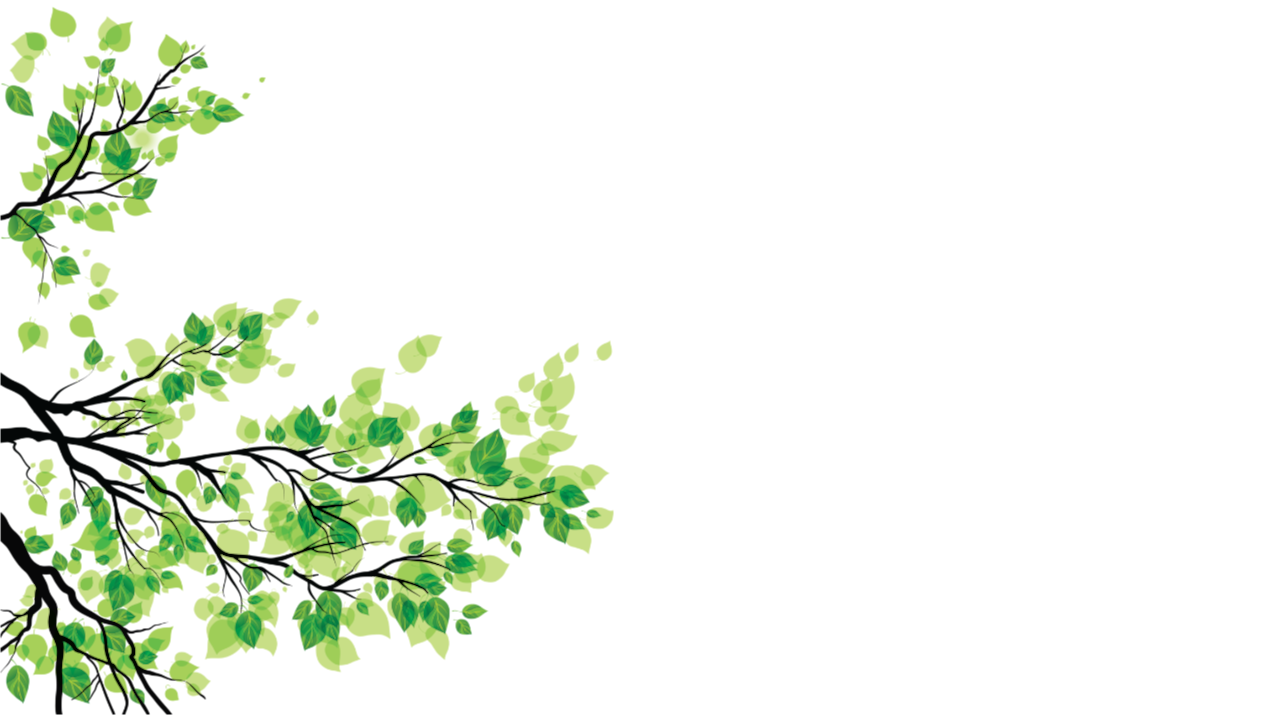
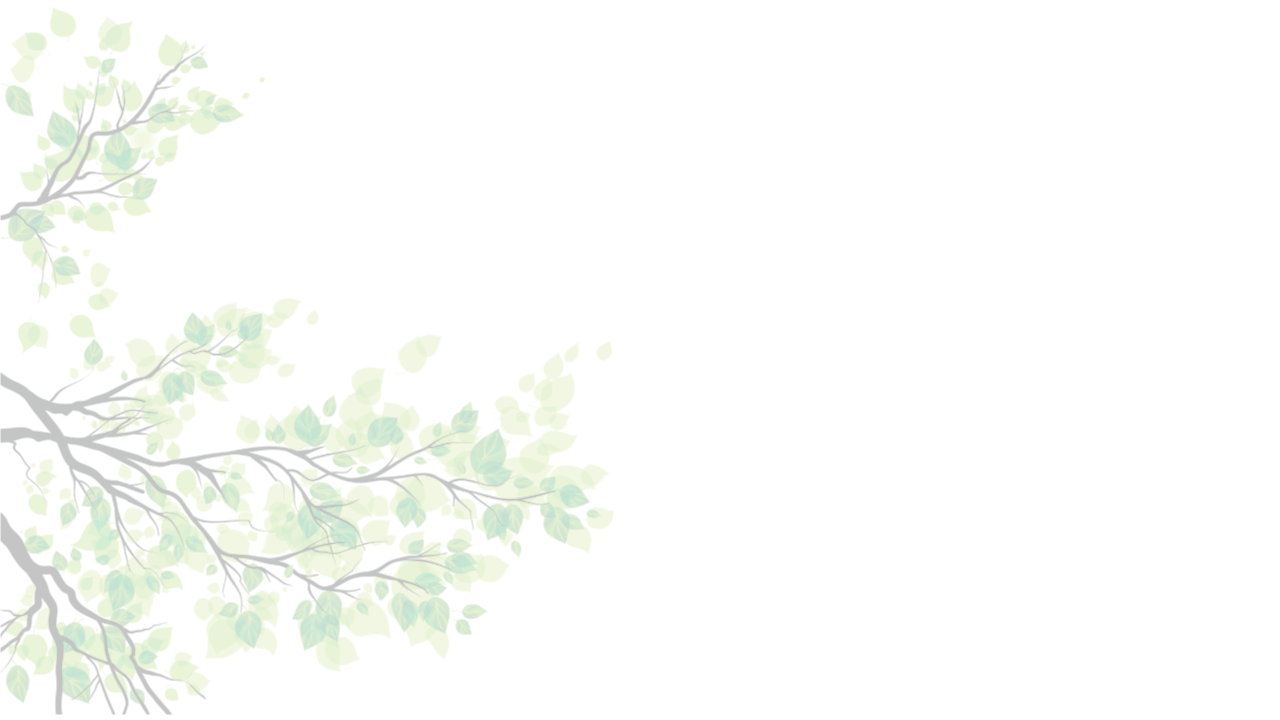
update 2

Changed region(s): [[0.0, 0.0, 0.5, 1.0]]

diff --git a/src/pages/Landing/Vision.js b/src/pages/Landing/Vision.js
@@ -10,9 +10,10 @@ import { NAVBAR_PAGES } from '../../constants/navbar';
 const Vision = () => {
     return (
         <Container id={NAVBAR_PAGES[1].id} sx={{ alignSelf: 'center' }}>
-            <Grid container spacing={10} alignItems="center">
-                <Grid item md={6} xs={12}>
-                    <Stack spacing={3}>
+            <Title>Notre Vision</Title>
+            <Grid container spacing={8} alignItems="center">
+                <Grid item md={6} xs={12} alignItems="center">
+                    <Stack spacing={3} sx={{ width: 'fit-content', mx: { md: 'auto' } }}>
                         <Box
                             sx={(theme) => ({
                                 height: { sm: 350, xs: 250 },
@@ -58,45 +59,49 @@ const Vision = () => {
                                 })}
                             />
                         </Box>
-                        <Title zigzag>Notre Vision</Title>
-                        <Typography
-                            sx={(theme) => ({
-                                fontSize: theme.fontSize.md,
-                                fontWeight: theme.fontWeight.light,
-                                color: theme.palette.common.black,
-                            })}
-                        >
-                            Notre vision est celle d'une unité de développement de chaînes de valeur qui agit comme un catalyseur de
-                            transformation positive. Nous travaillons avec passion pour créer un écosystème où les agriculteurs, artisans et
-                            professionnels prospèrent, où les communautés s'épanouissent, et où l'impact de nos efforts se fait ressentir à
-                            travers une amélioration tangible des conditions de vie. Notre engagement envers une synergie efficace au sein
-                            des chaînes de valeur est le socle sur lequel repose notre quête d'un avenir plus prospère et durable pour tous.
-                            Notre vision s'articule autour de plusieurs principes fondamentaux :
-                        </Typography>
                     </Stack>
+                    <Typography
+                        sx={(theme) => ({
+                            fontSize: theme.fontSize.md,
+                            fontWeight: theme.fontWeight.light,
+                            color: theme.palette.common.black,
+                            lineHeight: 2,
+                            textAlign: 'justify',
+                            mt: 3,
+                        })}
+                    >
+                        Notre vision est celle d'une unité de développement de chaînes de valeur qui agit comme un catalyseur de
+                        transformation positive. Nous travaillons avec passion pour créer un écosystème où les agriculteurs, artisans et
+                        professionnels prospèrent, où les communautés s'épanouissent, et où l'impact de nos efforts se fait ressentir à
+                        travers une amélioration tangible des conditions de vie. Notre engagement envers une synergie efficace au sein des
+                        chaînes de valeur est le socle sur lequel repose notre quête d'un avenir plus prospère et durable pour tous. Notre
+                        vision s'articule autour de plusieurs principes fondamentaux :
+                    </Typography>
                 </Grid>
 
                 <Grid item md={6} xs={12}>
                     {/* <Grid container spacing={3}> */}
-                    <Stack spacing={2}>
+                    <Stack spacing={4}>
                         {VISION.map((item) => (
-                            <Box display="flex" alignItems="center" gap={2}>
+                            <Box display="flex" alignItems="center" gap={3}>
                                 <Avatar
                                     sx={(theme) => ({
                                         backgroundColor: 'transparent',
-                                        width: 10,
-                                        height: 10,
+                                        width: 60,
+                                        height: 60,
                                         color: theme.palette.secondary.main,
+                                        fontSize: theme.fontSize['4xl'],
                                     })}
                                 >
-                                    <BsFillCircleFill />
+                                    {item.icon}
                                 </Avatar>
-                                <Stack>
+                                <Stack spacing={1}>
                                     <Typography
                                         sx={(theme) => ({
                                             fontSize: theme.fontSize.lg,
-                                            // fontWeight: theme.fontWeight.semibold,
-                                            color: theme.palette.primary.main,
+                                            fontWeight: theme.fontWeight.semibold,
+                                            // color: theme.palette.primary.main,
+                                            color: theme.palette.common.black,
                                         })}
                                     >
                                         {item.title}
@@ -105,7 +110,7 @@ const Vision = () => {
                                         sx={(theme) => ({
                                             fontSize: theme.fontSize.sm,
                                             fontWeight: theme.fontWeight.light,
-                                            color: theme.palette.common.black,
+                                            color: theme.palette.grey[600],
                                         })}
                                     >
                                         {item.desc}

diff --git a/src/pages/Landing/HowItWorks.js b/src/pages/Landing/HowItWorks.js
@@ -2,7 +2,9 @@ import { Box, Container, Grid, Stack, Typography } from '@mui/material';
 import React from 'react';
 import Image from '../../assets/landing/howItWorks.png';
 import { Img, Title } from '../../components';
-import Bg from '../../assets/utils/leafs-branch.png';
+// import Bg from '../../assets/utils/leafs-branch.png';
+import Bg from '../../assets/utils/leafs.png';
+// import Bg from '../../assets/utils/leafs2.png';
 import { NAVBAR_PAGES } from '../../constants/navbar';
 
 const HowItWorks = () => {
@@ -13,28 +15,30 @@ const HowItWorks = () => {
                 position: 'relative',
                 backgroundImage: `url(${Bg})`,
                 backgroundRepeat: 'no-repeat',
-                backgroundPosition: 'top left',
+                backgroundPosition: 'center left',
                 backgroundSize: 'contain',
             })}
         >
             <Container sx={{ alignSelf: 'center' }}>
-                <Title zigzag withPadding>
-                    Comment ça marche?
-                </Title>
+                <Title>Comment ça marche?</Title>
 
                 <Grid container spacing={10} alignItems="center">
                     <Grid item md={6} xs={12}>
                         <Stack spacing={1} alignItems="flex-start">
-                            <Typography lineHeight={2}>
+                            <Typography>
                                 <Typography
                                     component="span"
                                     sx={(theme) => ({
-                                        fontWeight: theme.fontWeight.light,
+                                        fontWeight: theme.fontWeight.bold,
+                                        // fontWeight: theme.fontWeight.light,
                                         display: 'inline',
-                                        fontSize: theme.fontSize['4xl'],
+                                        fontSize: '2.125rem',
+                                        // fontSize: theme.fontSize['4xl'],
+                                        // color: theme.palette.primary.main,
                                         color: theme.palette.common.white,
                                         backgroundColor: theme.palette.primary.main,
                                         lineHeight: 2,
+                                        textAlign: 'justify',
                                     })}
                                 >
                                     Création de Synergie dans la Chaîne de Valeur pour un Développement Équitable et Durable

diff --git a/src/components/Title/index.js b/src/components/Title/index.js
@@ -2,9 +2,10 @@ import { Box, Stack, Typography } from '@mui/material';
 import React from 'react';
 import Line from '../Line';
 import Img from '../Img';
-import Zigzag from '../../assets/utils/zigzag.png';
+// import Zigzag from '../../assets/utils/zigzag.png';
+import Zigzag from '../../assets/utils/leaf-line.png';
 
-const Title = ({ children, white, zigzag, withPadding }) => {
+const Title = ({ children, white, zigzag, withPadding, smallLine }) => {
     return (
         <>
             {zigzag ? (
@@ -12,23 +13,29 @@ const Title = ({ children, white, zigzag, withPadding }) => {
                     <Typography
                         sx={(theme) => ({
                             fontWeight: theme.fontWeight.bold,
-                            fontSize: theme.fontSize['2xl'],
-                            color: theme.palette.primary.main,
+                            fontSize: theme.fontSize['xl'],
+                            color: white ? theme.palette.common.white : theme.palette.primary.main,
                             zIndex: 20,
+                            mb: smallLine ? 1 : 0,
                         })}
                     >
                         {children}
                     </Typography>
-                    <Img
-                        sx={{
-                            position: 'absolute',
-                            top: 35,
-                            left: 0,
-                            width: 35,
-                            zIndex: 0,
-                        }}
-                        src={Zigzag}
-                    />
+                    {smallLine ? (
+                        <Line smallLine={smallLine} white={white} />
+                    ) : (
+                        <Img
+                            sx={{
+                                position: 'absolute',
+                                // top: 35,
+                                top: -33,
+                                left: -20,
+                                width: 35,
+                                zIndex: 0,
+                            }}
+                            src={Zigzag}
+                        />
+                    )}
                 </Box>
             ) : (
                 <Stack
@@ -48,7 +55,7 @@ const Title = ({ children, white, zigzag, withPadding }) => {
                     >
                         {children}
                     </Typography>
-                    <Line white={white} />
+                    <Line smallLine={smallLine} white={white} />
                 </Stack>
             )}
         </>

diff --git a/src/constants/landing.js b/src/constants/landing.js
@@ -1,4 +1,14 @@
-import { BsClipboard2CheckFill, BsFillPeopleFill, BsFillRecordCircleFill, BsFillSearchHeartFill } from 'react-icons/bs';
+import {
+    BsArrowClockwise,
+    BsBarChart,
+    BsBoxes,
+    BsClipboard2CheckFill,
+    BsFillPeopleFill,
+    BsFillRecordCircleFill,
+    BsFillSearchHeartFill,
+    BsPeople,
+    BsRocket
+} from 'react-icons/bs';
 import Agricole from '../assets/landing/agricole.png';
 import Artisanal from '../assets/landing/artisanal.png';
 import Textile from '../assets/landing/textile.png';
@@ -27,22 +37,27 @@ export const VISION = [
     {
         title: 'Amélioration des conditions de vie',
         desc: 'Opportunités qui permettent aux agriculteurs, artisans et professionnels de ces chaînes de valeur de prospérer économiquement tout en améliorant leur qualité de vie globale',
+        icon: <BsBarChart />,
     },
     {
         title: 'Développement socio-économique',
         desc: "Environnement propice à la croissance économique, à l'innovation et à la création d'emplois, tout en respectant les traditions et la culture locales",
+        icon: <BsPeople />,
     },
     {
         title: 'Synergie entre les maillons',
         desc: "En favorisant la coopération entre les différents acteurs des chaînes de valeur, nous contribuons à renforcer l'ensemble du système, de la production à la distribution, en passant par la transformation",
+        icon: <BsBoxes />,
     },
     {
         title: 'Impact durable',
         desc: 'collaboration avec les partenaires locaux pour garantir que les résultats de nos efforts perdurent sur le long terme',
+        icon: <BsArrowClockwise />,
     },
     {
         title: 'Innovation constante',
         desc: 'Nouvelles approches, technologies et pratiques pour optimiser les chaînes de valeur que nous soutenons, les rendre plus efficaces et plus durables',
+        icon: <BsRocket />,
     },
 ];
 

diff --git a/src/pages/Landing/SILVCUUnit.js b/src/pages/Landing/SILVCUUnit.js
@@ -23,9 +23,19 @@ const SILVCUUnit = () => {
                 })}
             >
                 <Container>
-                    <Grid container spacing={10}>
+                    <Title white>SIL-VCU Unit</Title>
+                    <Grid container spacing={8}>
                         <Grid item md={5.5} xs={12}>
-                            <Title white>SIL-VCU Unit</Title>
+                            <Typography
+                                sx={(theme) => ({
+                                    fontWeight: theme.fontWeight.bold,
+                                    fontSize: theme.fontSize['xl'],
+                                    color: theme.palette.common.white,
+                                    mb: 3,
+                                })}
+                            >
+                                À propos
+                            </Typography>
                             <Typography
                                 sx={(theme) => ({
                                     fontSize: theme.fontSize.xl,
@@ -52,7 +62,16 @@ const SILVCUUnit = () => {
                         </Grid>
 
                         <Grid item md={5.5} xs={12}>
-                            <Title white>Approche Collaborative </Title>
+                            <Typography
+                                sx={(theme) => ({
+                                    fontWeight: theme.fontWeight.bold,
+                                    fontSize: theme.fontSize['xl'],
+                                    color: theme.palette.common.white,
+                                    mb: 3,
+                                })}
+                            >
+                                Approche Collaborative
+                            </Typography>
                             <Typography
                                 sx={(theme) => ({
                                     fontSize: theme.fontSize.xl,

diff --git a/src/pages/Landing/AboutUs.js b/src/pages/Landing/AboutUs.js
@@ -28,6 +28,7 @@ const AboutUs = () => {
                                     fontSize: theme.fontSize.md,
                                     fontWeight: theme.fontWeight.light,
                                     color: theme.palette.common.black,
+                                    textAlign: 'justify',
                                 })}
                             >
                                 Un espace d'innovation sociale, de recherche-action et de co-construction qui accompagne les populations,
@@ -39,6 +40,7 @@ const AboutUs = () => {
                                     fontSize: theme.fontSize.md,
                                     fontWeight: theme.fontWeight.light,
                                     color: theme.palette.common.black,
+                                    textAlign: 'justify',
                                 })}
                             >
                                 Notre dévouement se focalise sur la conception de solutions innovantes durables visant à appuyer le

diff --git a/src/pages/Landing/Values.js b/src/pages/Landing/Values.js
@@ -89,6 +89,7 @@ const Values = () => {
                                                     fontWeight: theme.fontWeight.light,
                                                     transition: 'all .3s ease',
                                                     color: hover === index ? theme.palette.common.white : theme.palette.common.black,
+                                                    textAlign: 'justify',
                                                 })}
                                             >
                                                 {item.desc}

diff --git a/src/components/Line/index.js b/src/components/Line/index.js
@@ -1,14 +1,14 @@
 import { Divider } from '@mui/material';
 import React from 'react';
 
-const Line = ({ white }) => {
+const Line = ({ white, smallLine }) => {
     return (
         <Divider
             sx={(theme) => ({
                 width: '100%',
                 border: '3px solid',
                 borderColor: white ? theme.palette.common.white : theme.palette.secondary.main,
-                maxWidth: '15rem',
+                maxWidth: smallLine ? '2rem' : '5rem',
             })}
         />
     );

diff --git a/src/pages/Landing/index.js b/src/pages/Landing/index.js
@@ -34,7 +34,7 @@ const Landing = () => {
         }
     }, [hash]);
     return (
-        <Stack spacing={20}>
+        <Stack spacing={10}>
             <Header />
             <AboutUs />
             <SILVCUUnit />
